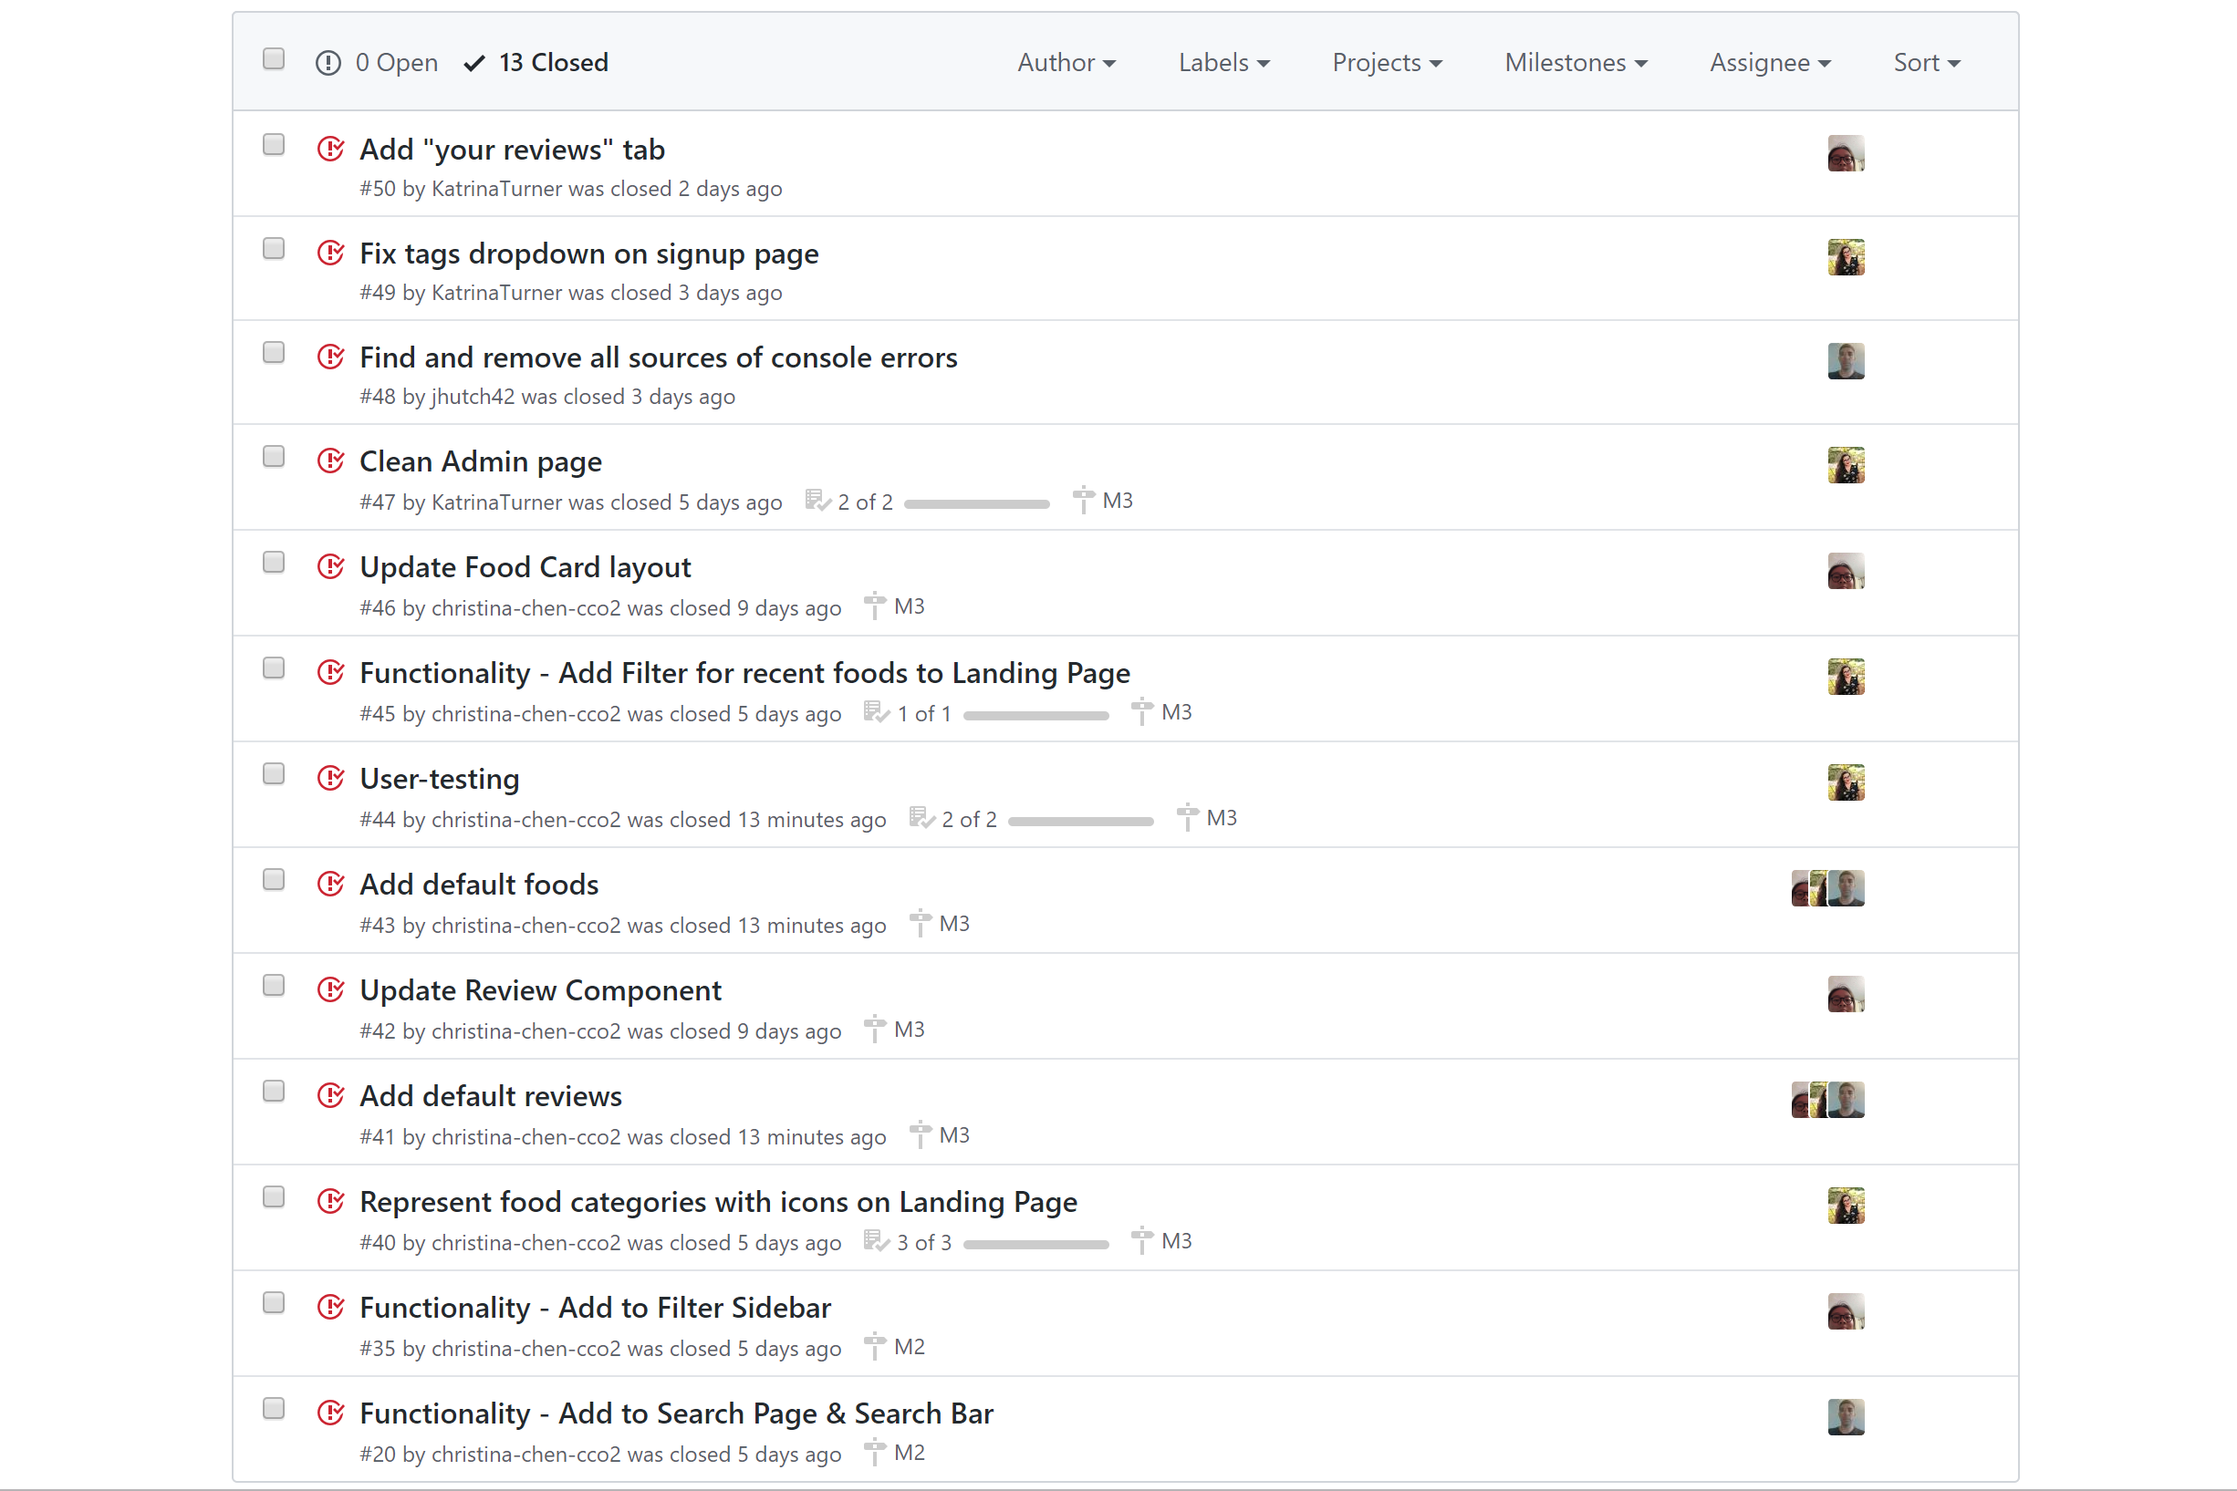
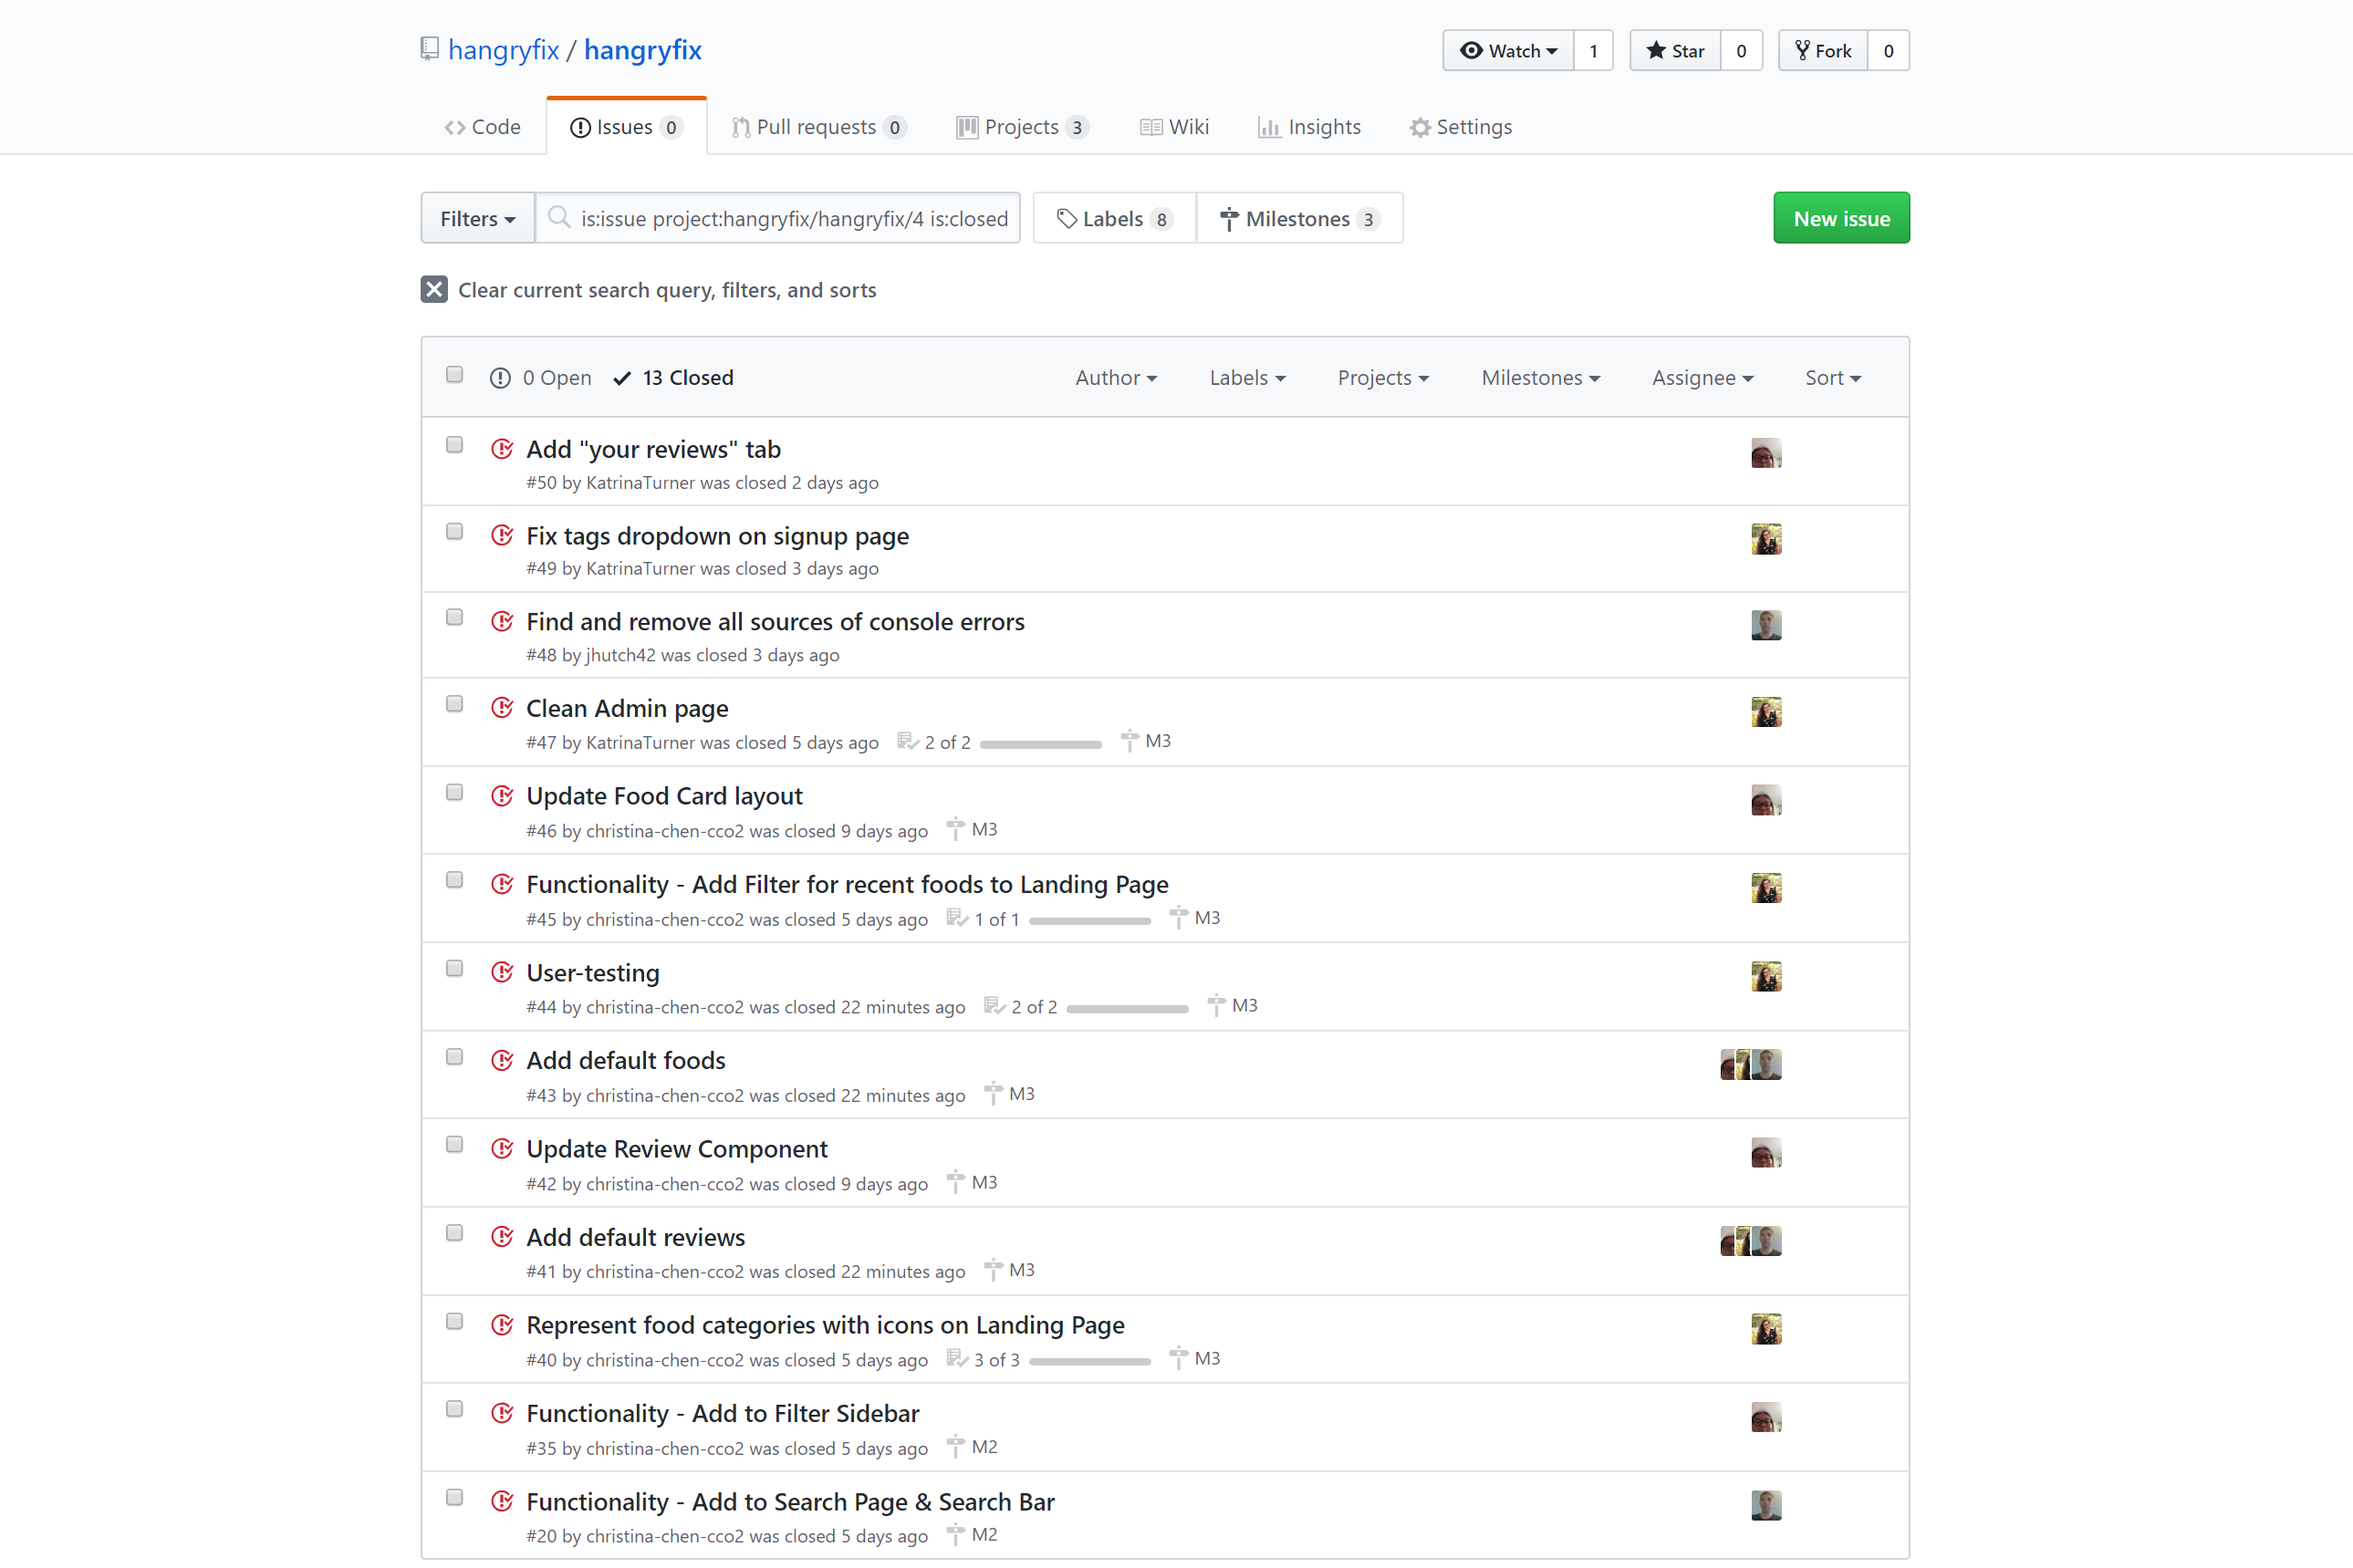
added m3

diff --git a/index.md b/index.md
@@ -137,14 +137,14 @@ Milestone 2 consisted of 13 issues, each of which were implemented in their own 
 Milestone 3 was implemented as hangryFIX GitHub Milestone M3:
 <br><br>
 
-<img style="width: 70%" src="doc/M3-issues.png">
+<img style="width: 70%" src="doc/m3-issues.png">
 
 <br><br>
 Milestone 3 consisted of 13 issues, each of which were implemented in their own branches that were later merged into the master. Progress was managed via the hangryFIX GitHub Project M3:
 <br><br>
 
 
-[insert screenshot "m3_project" here]
+<img style="width: 70%" src="doc/m3-project.png">
 
 
 </p>
